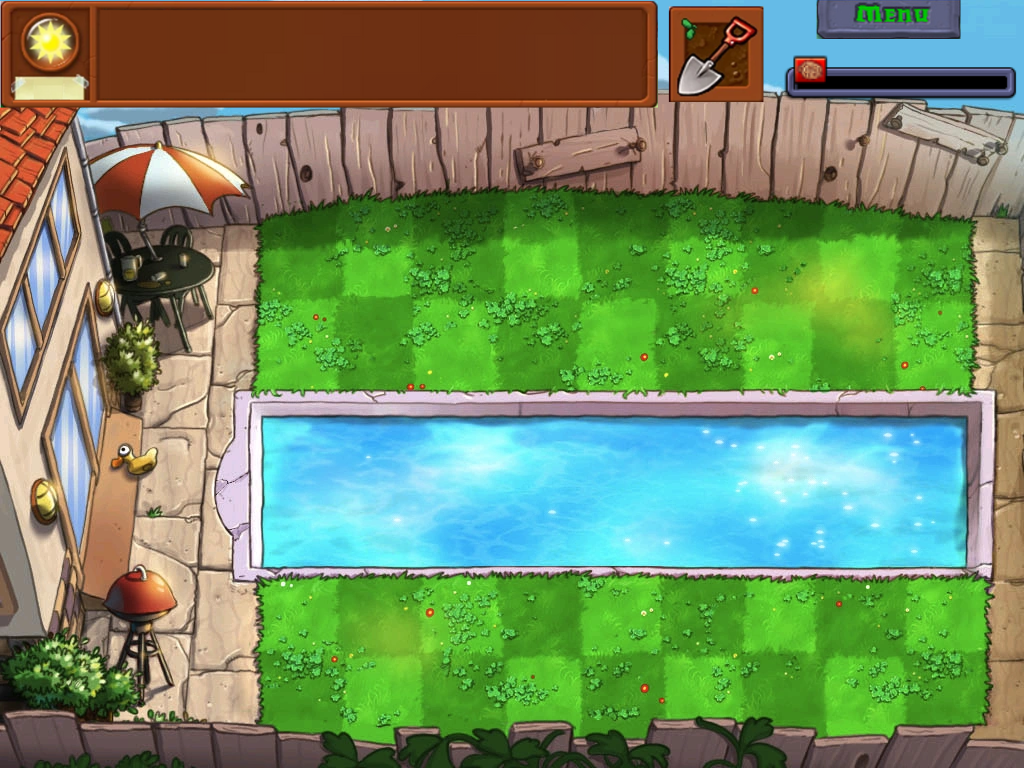
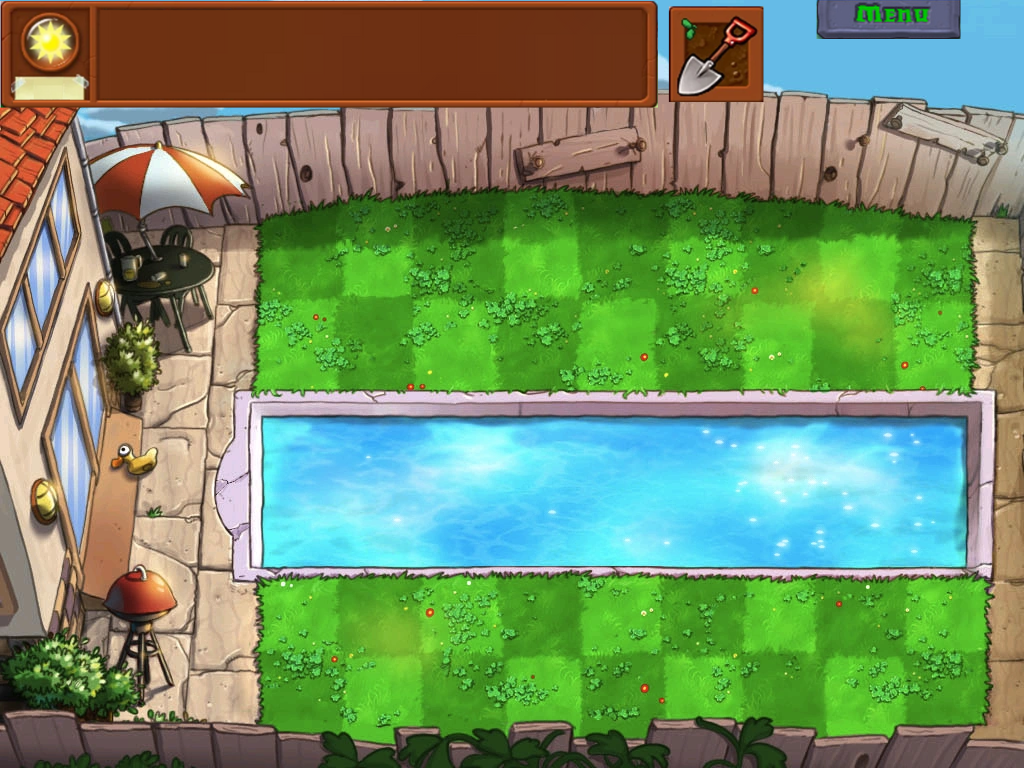
feat: added flag wave

Changed region(s): [[0.75, 0.0625, 1.0, 0.1562]]

diff --git a/src/managers/ZombiesManager.java b/src/managers/ZombiesManager.java
@@ -23,10 +23,15 @@ public class ZombiesManager {
 	private static ArrayList<Zombie> zombies;
 	private static ArrayList<Plant> plants;
 	private static ScheduledExecutorService scheduler;
-	private static final int INITIAL_ZOMBIE_COUNT = 10;
-	private static final int ZOMBIE_GENERATION_DELAY = 10;
-	private static final int TOTAL_ZOMBIE_COUNT = 3;
+	private static final int TOTAL_ZOMBIE_COUNT = 70;
+
+	private static final int[] positions = new int[] {200, 290, 380, 470, 560, 650};
+	private static final int[] flagPositions = new int[] {200, 290, 560, 650};
+
+	private static int zombieAtOneTime = 10;
+	private static int zombieDelay = 4;
 	private static int zombieCount = 0;
+	private static boolean flag = false;
 
 	public ZombiesManager(Playing playing) {
 		this.playing = playing;
@@ -66,7 +71,10 @@ public class ZombiesManager {
                         z.setSpeed(-0.15f);
                         if (z instanceof Polevault) {
                             z.setImage(z.getZombieImage("Polevault2"));
-                        }
+                        } 
+						z.setAttacking(true);
+						attacked = true;
+						break;
                     } else if (p instanceof Lilypad) {
                         boolean withLily = false;
                         for (Plant p2 : plants) {
@@ -156,32 +164,40 @@ public class ZombiesManager {
         }
 
         // Game Over
-        if (z.getX() <= 90) {
+        if (z.getX() <= 100) {
             setGameState(GAMEOVER);
         }
     }
 }
 
 	public void scheduleZombieGeneration() { 
+		if (Sun.getTick() == 175) {
+			zombieDelay = 1;
+			zombieAtOneTime = 25;
+		}
 		Runnable addZombieTask = () -> { 
-			if (Sun.getTick() >= 20 && Sun.getTick() <= 160) {
-				if (zombies.size() >= INITIAL_ZOMBIE_COUNT) {
+			int tick = Sun.getTick();
+			if (tick >= 20 && tick <= 210) {
+				if (zombies.size() >= zombieAtOneTime) {
 					return;
 				} else {
 					Random rand = new Random();
-					// int[] positions = new int[] {200, 290, 560, 650};
-					// int[] positions = new int[] {200, 290, 560, 650};
-					// int[] positions = new int[] {380, 470};
-					int[] positions = new int[] {200, 380, 470};
-					int pos = rand.nextInt(positions.length);
-					addZombie(990, positions[pos]);
+					int pos;
+					if (tick >= 165 && tick <= 170 && !flag) {
+						pos = rand.nextInt(flagPositions.length);
+						addZombie(990, flagPositions[pos]);
+					} else {
+						pos = rand.nextInt(positions.length);
+						addZombie(990, positions[pos]);
+					}
+					
 				}
 			}
-			if (zombieCount >= TOTAL_ZOMBIE_COUNT) {
+			if (zombieCount >= TOTAL_ZOMBIE_COUNT || Sun.getTick() > 210) {
 				scheduler.shutdown();
 			}
 		};
-		scheduler.scheduleAtFixedRate(addZombieTask, 0, ZOMBIE_GENERATION_DELAY, TimeUnit.SECONDS);
+		scheduler.scheduleAtFixedRate(addZombieTask, 0, zombieDelay, TimeUnit.SECONDS);
 	}
 
 	public static boolean checkZombiesInLane(int y) {
@@ -276,20 +292,30 @@ public class ZombiesManager {
 
 	public void addZombie(int x, int y) {
 		Random random = new Random();
-		// String[] zombieTypes = {"Normal", "Football", "Conehead", "Buckethead", "Flag", "Screendoor", "Polevault", "Newspaper", "Duckytube", "Dolphin"};
-		String[] zombieTypes = {"Polevault", "Dolphin"};
+		// String[] zombieTypes = {"Normal", "Football", "Conehead", "Buckethead", "Screendoor", "Polevault", "Newspaper", "Duckytube", "Dolphin"};
+		String[] zombieTypes = {"Polevault", "Duckytube"};
+
 		int zombieType = random.nextInt(zombieTypes.length);
 		Zombie zom = ZombieFactory.CreateZombie(zombieTypes[zombieType], x, y);
-		while ((y == 380 || y == 470) && !zom.getAquatic()) {
-			zombieType = random.nextInt(zombieTypes.length);
-			zom = ZombieFactory.CreateZombie(zombieTypes[zombieType], x, y);
+		
+		if (Sun.getTick() >= 165 && Sun.getTick() <= 170 && !flag) {
+			zom = ZombieFactory.CreateZombie("Flag", x, y);
+			flag = true;
+		} else {
+			while ((y == 380 || y == 470) && !zom.getAquatic()) {
+				zombieType = random.nextInt(zombieTypes.length);
+				zom = ZombieFactory.CreateZombie(zombieTypes[zombieType], x, y);
+			}
+	
+			while ((y == 200 || y == 290 || y == 560 || y == 650) && zom.getAquatic()) {
+				zombieType = random.nextInt(zombieTypes.length);
+				zom = ZombieFactory.CreateZombie(zombieTypes[zombieType], x, y);
+			}
 		}
-		while ((y == 200 || y == 290 || y == 560 || y == 650) && zom.getAquatic()) {
-			zombieType = random.nextInt(zombieTypes.length);
-			zom = ZombieFactory.CreateZombie(zombieTypes[zombieType], x, y);
-		}
+
 		zombies.add(zom);
 		zombieCount++;
+
 		System.out.println("Zombie generated at " + y);
 	}
 

diff --git a/src/ui/FlagBar.java b/src/ui/FlagBar.java
@@ -3,52 +3,80 @@ package ui;
 import java.awt.Color;
 import java.awt.Graphics;
 import java.awt.Rectangle;
-import java.util.ArrayList;
-import java.util.Iterator;
+import java.io.IOException;
+import java.io.InputStream;
+import java.awt.image.BufferedImage;
 
-import entity.Plants.Plant;
-import entity.Plants.PlantFactory;
-import managers.ZombiesManager;
+import javax.imageio.ImageIO;
+
 import objects.Sun;
 import scenes.Playing;
 // import entity.Sun;
 
 public class FlagBar {
     
-    private int x, y, width, height;
-    private Rectangle progressBar;
+    private int x, y;
+    private BufferedImage[] barImages = new BufferedImage[17];
+    private BufferedImage flagImage, waveNotice;
     private Playing playing;
 
-    public FlagBar(int x, int y, int width, int height, Playing playing) {
+    public FlagBar(int x, int y, Playing playing) {
         this.x = x;
         this.y = y;
-        this.width = width;
-        this.height = height;
         this.playing = playing;
+    
 
-        progressBar = new Rectangle(x, y, width, height);
+        initBarImages();
+        flagImage = barImages[0];
     }
 
+    private void initBarImages() {
+        for (int i = 0; i < 17; i++) {
+            barImages[i] = getBarImage(String.valueOf(i));
+        }
+        waveNotice = getBarImage("WaveNotice");
+    }
+
+    private BufferedImage getBarImage(String name) {
+        BufferedImage img = null;
+        InputStream is = getClass().getResourceAsStream("resources/FlagBar/" + name + ".png");
+
+        try {
+            img = ImageIO.read(is);
+        } catch (IOException e) {
+            e.printStackTrace();   
+        }       
+
+        return img;
+    }
+
+    private void updateProgressBar() {
+        int tick = Sun.getTick();
+        if (tick >= 20 && tick <= 180) {
+            int tickIndex = ((int) Sun.getTick() / 10) - 2;
+            flagImage = barImages[tickIndex];
+        } else if (tick > 180) {
+            flagImage = barImages[16];
+        }
+    }
 
     private void drawProgressBar(Graphics g) {
-        progressBar.x = x;
-        progressBar.y = y;
-        progressBar.width = width;
-        progressBar.height = height;
-
-        g.setColor(Color.GREEN);
-        g.fillRect(x, y, width, height);
+        g.drawImage(flagImage, x, y, null);
+        if (Sun.getTick() >= 170 && Sun.getTick() <= 175){
+            g.drawImage(waveNotice, 112, 360, null);
+        }
     }
 
 
     public void draw(Graphics g) {
 
         // Buttons
+        updateProgressBar();
         drawProgressBar(g);
-        
+
     }
 
-	public void mouseClicked(int x, int y) {
+    public void mouseClicked(int x, int y) {
 
 	}
 
@@ -74,14 +102,6 @@ public class FlagBar {
 
     public int getY() {
         return y;
-    }
-
-    public int getWidth() {
-        return width;
-    }
-
-    public int getHeight() {
-        return height;
     }
 
 }

diff --git a/src/objects/Sun.java b/src/objects/Sun.java
@@ -21,7 +21,7 @@ public class Sun {
     
     // Nanti pindain method ke playing
     public void startMorning() {   // bikin tick untuk si zombie
-        tick = 20;
+        tick = 165;
         sun = 500;
         timer = new Timer();
         tickTimer = new Timer();
@@ -30,7 +30,7 @@ public class Sun {
                 increaseTick();
                 addSunMorning();
             }
-        }, 0000, 200000); // bikin timer baru
+        }, 0000, 250000); // bikin timer baru
     }
 
     public void addSunMorning() {

diff --git a/src/managers/PlantsManager.java b/src/managers/PlantsManager.java
@@ -52,7 +52,7 @@ public class PlantsManager {
 	public static Plant checkPlantsInPos(int x, int y) {
 		Plant plant = null;
 		for (Plant p : plants) {
-			if ((int) p.getX() == x && (int) p.getY() == y){
+			if (((int) p.getX() - 30 <= x && (int) p.getX() >= x)&& (int) p.getY() == y){
 				plant = p;
 			}
 		}

diff --git a/src/scenes/Playing.java b/src/scenes/Playing.java
@@ -54,7 +54,7 @@ public class Playing extends GameScene implements SceneMethods {
 		peasManager = new PeasManager(this);
 
 		topBar = new TopBar(0, 0, 768, 100, this);
-		flagBar = new FlagBar(795, 75, 215, 15, this);
+		flagBar = new FlagBar(795, 65, this);
 
 		sun = new Sun();
         initSunText();
